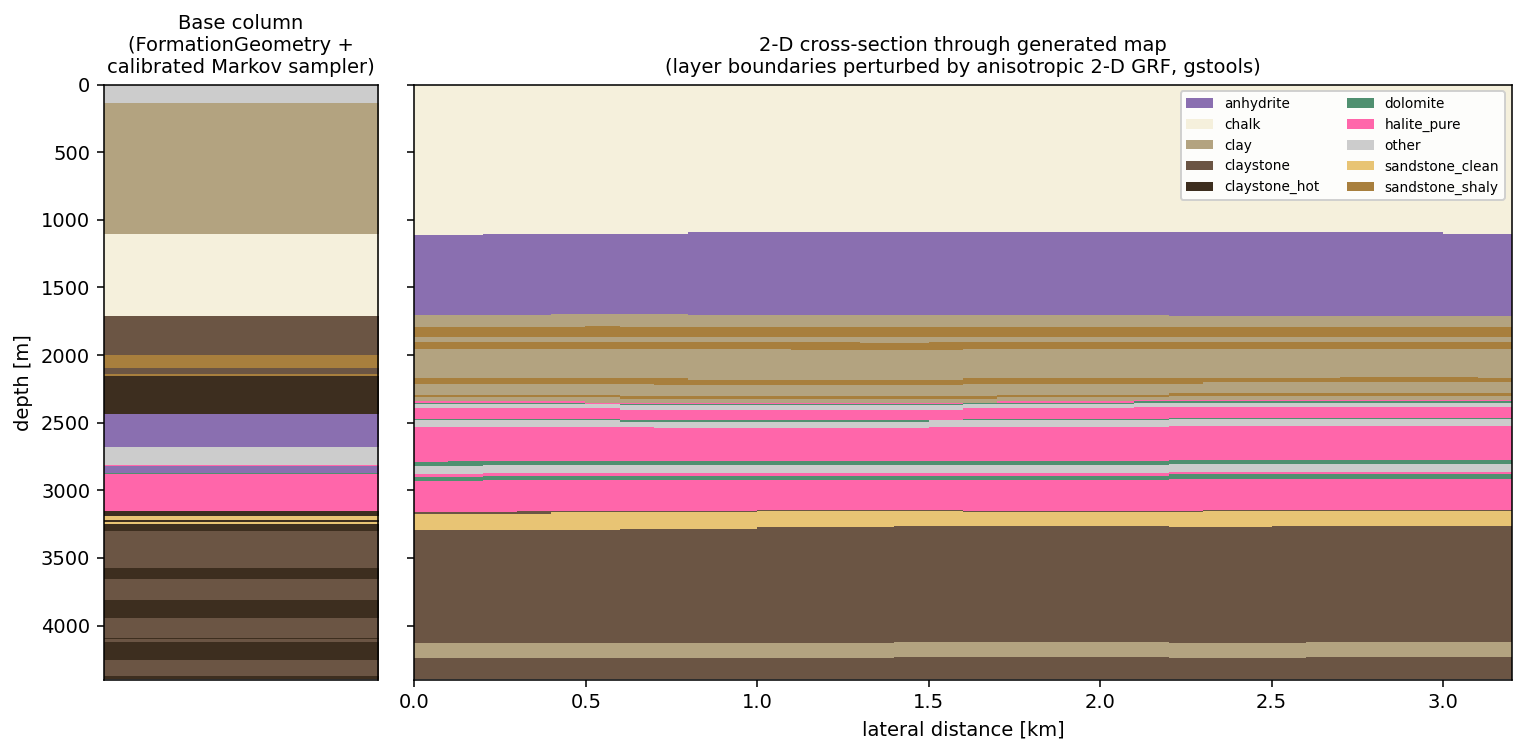
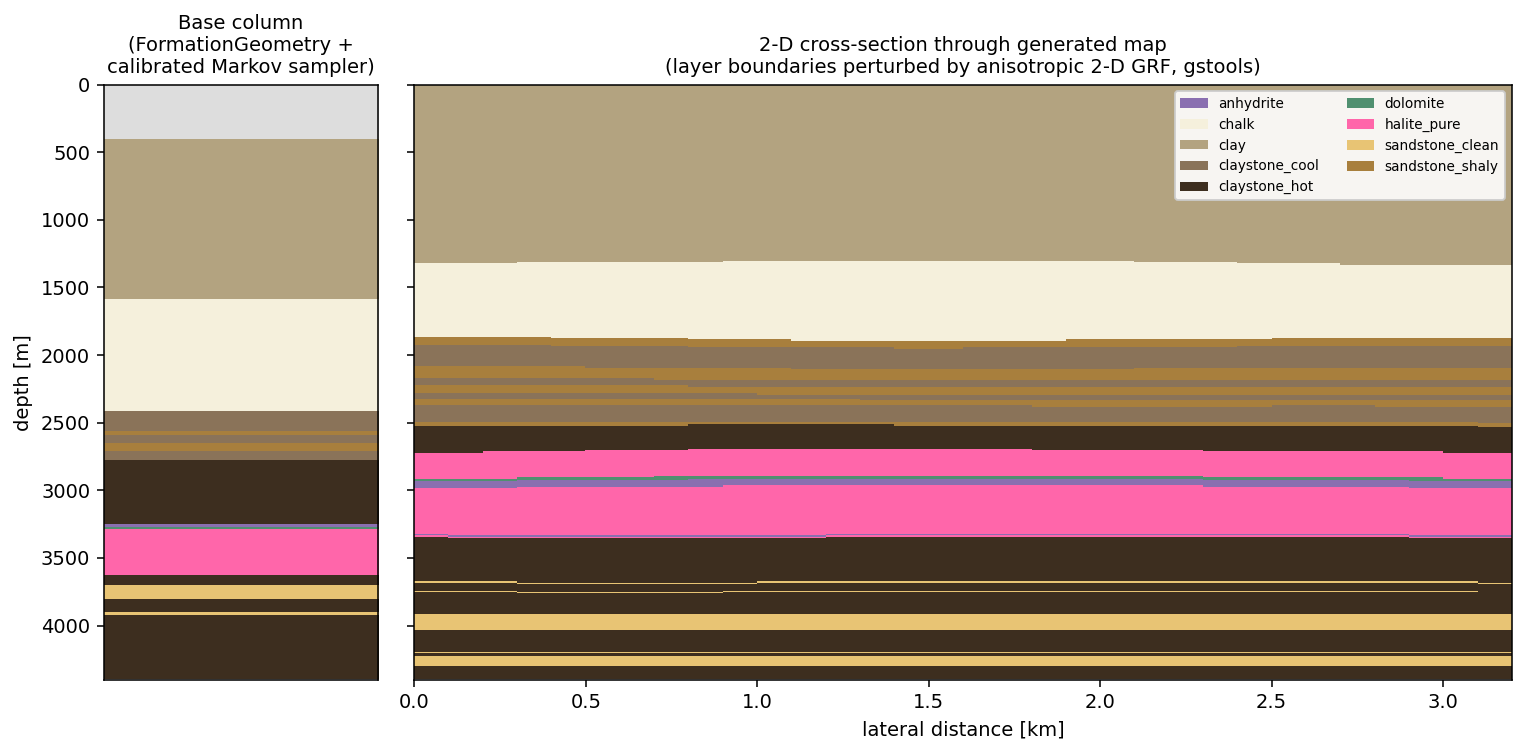
deck: filter coarse residuals from every chart; split Markov-chain slide
- analysis_simulation.py: apply fine-rock filter to sim_values
  and run_lengths right after streaming_aggregate. "other"
  (and any non-fine label) no longer appears in
  per_rock_marginal_distances.csv, 02/03 marginal plots, 06
  run-length plot, or 09 metric summary.
- formation_column_plot.py: non-fine rocks painted gray and
  dropped from the legend. formation_column_grf.png legend now
  shows only the 9 fine rock classes.
- Markov-chain slide split into two: (1) transition
  probabilities, (2) run-length distributions. Each chart gets
  ~62% textwidth; narrative beside.

diff --git a/scripts/diagnostics/formation_column_plot.py b/scripts/diagnostics/formation_column_plot.py
@@ -31,6 +31,16 @@ from simulator.visualize import ROCK_COLOURS
 
 OUT = Path("plots/formation_column_grf.png")
 
+# 9 fine rock classes only; non-fine residuals (e.g. "other") are
+# painted gray and excluded from the legend.
+FINE_ROCKS = frozenset([
+    "anhydrite", "chalk", "clay",
+    "claystone_cool", "claystone_hot",
+    "dolomite", "halite_pure",
+    "sandstone_clean", "sandstone_shaly",
+])
+NON_FINE_COLOUR = "#dddddd"
+
 
 def _rock_image(arr: np.ndarray) -> tuple[np.ndarray, list, ListedColormap]:
     unique = sorted(set(arr.ravel().tolist()))
@@ -61,12 +71,22 @@ def main() -> None:
     z_axis_m = m["depth_axis"]
 
     # --- colours: shared across both panels ------------------------------
-    all_rocks = sorted(set(list(base_rocks) + cross.ravel().tolist()))
+    # Restrict the legend to the 9 fine rock classes; any non-fine residual
+    # (e.g. "other" from the catch-all formation) is painted as a neutral
+    # background colour and dropped from the legend.
+    observed = set(list(base_rocks) + cross.ravel().tolist())
+    all_rocks = sorted(r for r in observed if r in FINE_ROCKS)
     rock_idx = {r: i for i, r in enumerate(all_rocks)}
-    cmap = ListedColormap([ROCK_COLOURS.get(r, "#888888") for r in all_rocks])
+    palette = [ROCK_COLOURS.get(r, "#888888") for r in all_rocks]
+    palette.append(NON_FINE_COLOUR)
+    non_fine_idx = len(all_rocks)
+    cmap = ListedColormap(palette)
 
-    base_int = np.vectorize(rock_idx.get)(base_rocks)
-    cross_int = np.vectorize(rock_idx.get)(cross)
+    def _to_idx(arr):
+        return np.vectorize(lambda r: rock_idx.get(r, non_fine_idx))(arr)
+
+    base_int = _to_idx(base_rocks)
+    cross_int = _to_idx(cross)
 
     fig, (axL, axR) = plt.subplots(1, 2, figsize=(11, 5.5),
                                    gridspec_kw={"width_ratios": [1, 4]})

diff --git a/analysis_simulation.py b/analysis_simulation.py
@@ -1116,12 +1116,20 @@ def main() -> None:
 
     print("\nstreaming aggregation over maps (single pass) ...")
     agg = streaming_aggregate(maps, TARGET_VARS)
-    sim_per_rock      = agg["sim_values"]
+    sim_per_rock      = {r: vd for r, vd in agg["sim_values"].items()
+                         if r in FINE_ROCKS_FOR_COMPOSITION}
     sim_by_fm         = agg["sim_by_fm"]
     transitions_by_fm = agg["transitions_by_fm"]
-    sim_runs          = agg["run_lengths"]
+    sim_runs          = {r: rs for r, rs in agg["run_lengths"].items()
+                         if r in FINE_ROCKS_FOR_COMPOSITION}
     first_map         = agg["first_map"]
-    print(f"  {len(sim_per_rock)} rock types; "
+    dropped_marg = set(agg["sim_values"]) - set(sim_per_rock)
+    dropped_runs = set(agg["run_lengths"]) - set(sim_runs)
+    if dropped_marg or dropped_runs:
+        print(f"  dropped non-fine rock labels from charts: "
+              f"marginals={sorted(dropped_marg)}, "
+              f"run-lengths={sorted(dropped_runs)}")
+    print(f"  {len(sim_per_rock)} fine rock types; "
           f"{len(sim_by_fm)} formations seen; "
           f"{sum(len(v) for v in sim_runs.values())} run-length samples")
     del maps  # release the streaming-list reference

diff --git a/plots/simulation/SIMULATION_REPORT.md b/plots/simulation/SIMULATION_REPORT.md
@@ -18,11 +18,11 @@ Compared **500 synthetic maps** against `data/clean/samples.parquet` across four
 
 | rock | variable | KS | Wasserstein | sim p50 | real p50 |
 |---|---|---|---|---|---|
-| other | dt_us_ft | 0.9033 | 66.0582 | 88.8388 | 171.0438 |
-| other | rhob | 0.8449 | 0.4774 | 2.3678 | 1.943 |
 | clay | dt_us_ft | 0.3105 | 21.887 | 127.9042 | 158.298 |
 | halite_pure | rhob | 0.3072 | 0.1248 | 2.1923 | 2.0767 |
 | anhydrite | rhob | 0.2759 | 0.1402 | 2.35 | 2.1212 |
+| claystone_hot | dt_us_ft | 0.2697 | 6.7861 | 69.2049 | 73.3392 |
+| halite_pure | dt_us_ft | 0.2643 | 2.4542 | 66.1543 | 67.978 |
 
 (KS < 0.10 = excellent fit, < 0.30 = good, > 0.40 = systematic mismatch worth investigating.)
 
